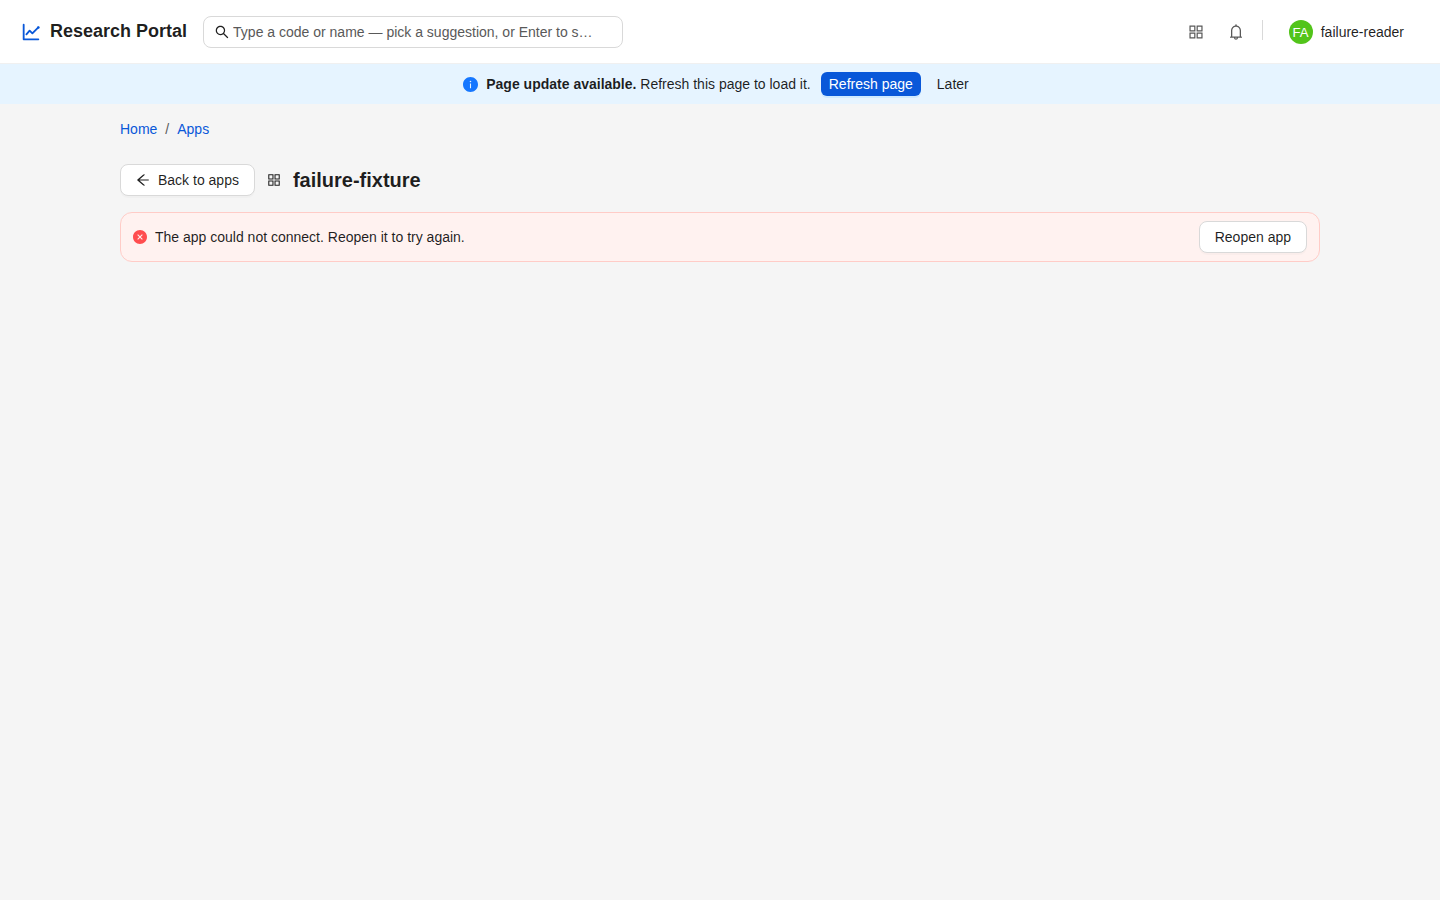
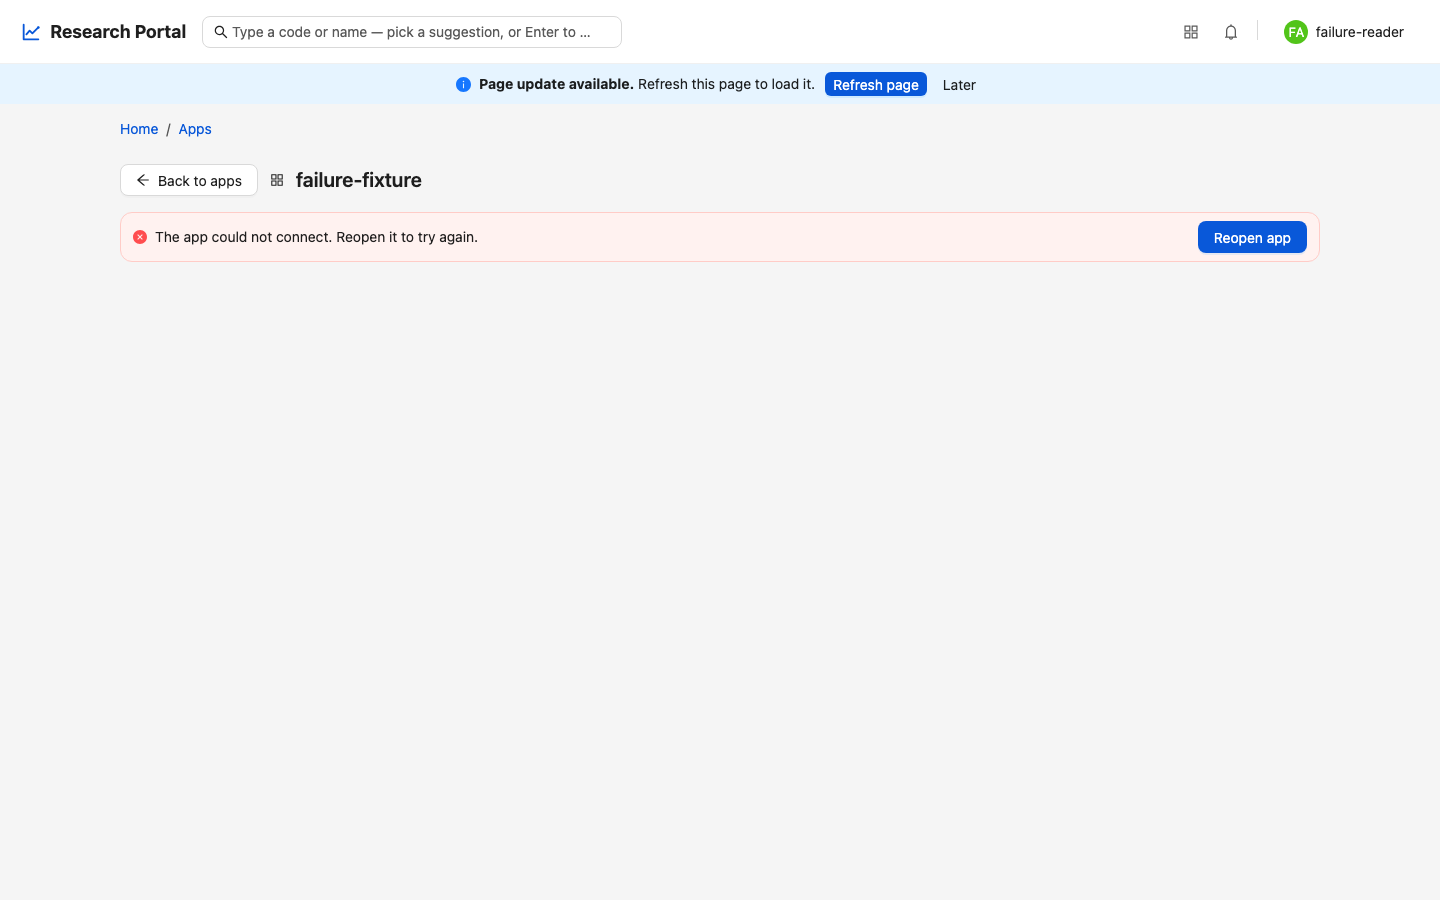
docs(apps): record final failure contrast acceptance

diff --git a/docs/app-platform/44-app-directory.md b/docs/app-platform/44-app-directory.md
@@ -109,20 +109,21 @@ app-language selector, iframe wrapper or alternate theme system is introduced.
   failures, parser refusals, continuation, retry, account-switch stale responses
   and unmount cancellation. These are component/hook tests, not full browser or
   D5 visual acceptance.
-- Production SPA Chromium evidence on candidate `27049931` covers pending,
+- Production SPA Chromium evidence on candidate `9b00be60` covers pending,
   disabled and attention directory cards, reader/admin visibility, denied
   launch, stopped backend, missing app-ready and incompatible protocol. No
   refused state mounts a frame or exposes installation IDs, counts or server
-  diagnostics. See [failure evidence](handoff/evidence/platform-failure/acceptance.json).
+  diagnostics. Failure recovery actions use the high-contrast primary button.
+  See [failure evidence](handoff/evidence/platform-failure/acceptance.json).
 
 The preceding launch-page source at
 `bb98074e5414975b964da0ff1a5d9ecf81e79c6c` passed CI run 40273040782.
 Full local web regression passed 1657 tests across 148 files. Typecheck, lint
 (existing unrelated warnings), production web build, Go vet, staticcheck and Go
 build passed. Targeted directory/launch/HTTP race checks with disposable PostgreSQL
-passed in 46.990 seconds. Candidate `27049931` passed general test `41518210506`,
-quota/browser `41518210317`, runner daemon `41518210239` and CodeQL
-`41518201148`.
+passed in 46.990 seconds. Candidate `9b00be60` passed general test `41523634476`,
+quota/browser `41523634496`, runner daemon `41523634639` and CodeQL
+`41523626446`.
 Production and server beta configuration are untouched. Full installer activation,
 market linkage, verified display names, managed launch, navigation/drafts,
 document sizing, sensitive broker policy and remaining P00–P14 acceptance stay

diff --git a/docs/app-platform/handoff/implementation-progress.md b/docs/app-platform/handoff/implementation-progress.md
@@ -134,15 +134,15 @@ disabled and attention states with separate explanations instead of one generic
 "unavailable" label. Administrators get a direct management-page recovery link
 only when the app is not openable; ordinary readers receive the truthful state
 without installation IDs, counts or an administrative action. The production
-SPA failure matrix on candidate `27049931` covers all three non-openable
+SPA failure matrix on candidate `9b00be60` covers all three non-openable
 directory states plus denied launch, stopped backend, missing app-ready and
 incompatible protocol. Refused and failed launches unmount executable content,
-show only fixed host errors, retain a keyboard-operable Reopen app action and
-never expose server diagnostics. The matrix has zero main-content
+show only fixed host errors, retain a keyboard-operable high-contrast Reopen app
+action and never expose server diagnostics. The matrix has zero main-content
 serious/critical axe findings or browser errors. Evidence is in
 [application failure evidence](evidence/platform-failure/acceptance.json).
-Hosted quota/browser `41518210317`, general test `41518210506`, runner daemon
-`41518210239` and CodeQL `41518201148` pass.
+Hosted quota/browser `41523634496`, general test `41523634476`, runner daemon
+`41523634639` and CodeQL `41523626446` pass.
 
 Native managed A-to-B acceptance now passes against the real Docker/XFS runner.
 Run `41272158463` completed install, update quiesce/checkpoint/source removal,
